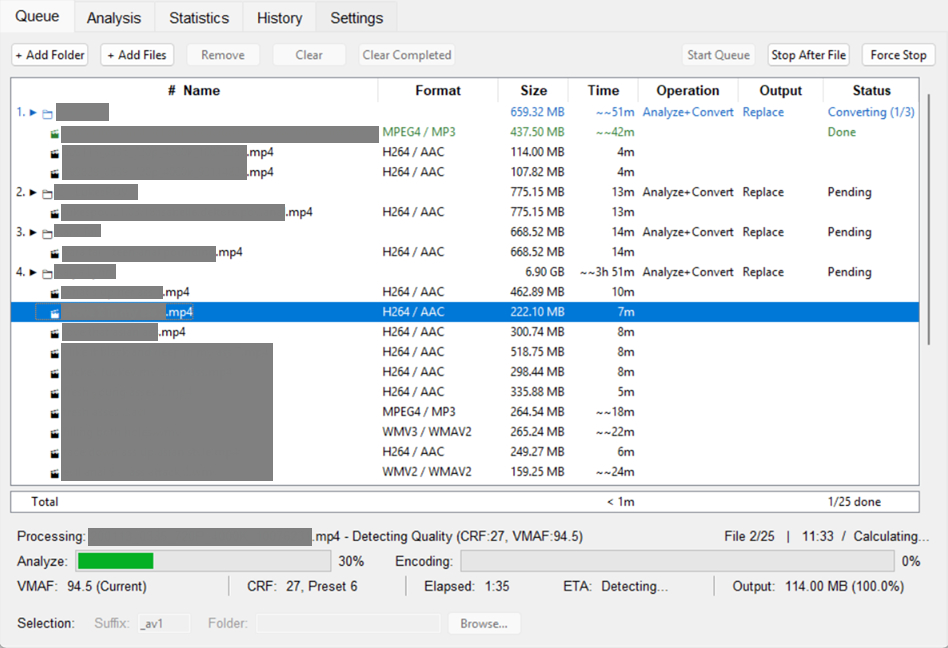
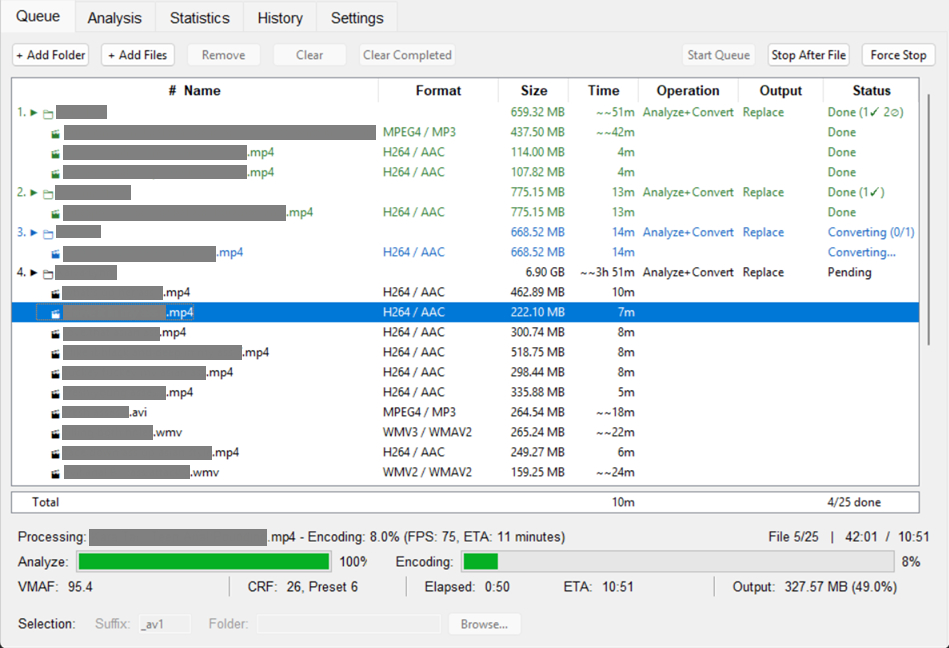
Rename config file and centralize settings defaults
Rename av1_converter_config.json → ab_av1_gui_config.json.

Add ConfigDict TypedDict and CONFIG_DEFAULTS in config.py so
main_window.py merges loaded config with defaults instead of
scattered .get() calls. Clean up temp file on failed save.

Also: update queue screenshot, add estimate tuning to README features.

diff --git a/src/gui/main_window.py b/src/gui/main_window.py
@@ -4,6 +4,7 @@ Main window module for the AV1 Video Converter application.
 """
 
 # Standard library imports
+import contextlib
 import json  # For settings persistence
 import logging
 import multiprocessing
@@ -17,6 +18,7 @@ from typing import TYPE_CHECKING
 if TYPE_CHECKING:
     from src.gui.charts import BarChart, LineGraph, PieChart
 
+from src.config import CONFIG_DEFAULTS, CONFIG_FILE
 from src.gui import (
     analysis_controller,
     analysis_scanner,
@@ -53,8 +55,8 @@ from src.utils import scrub_history_paths, scrub_log_files
 logger = logging.getLogger(__name__)
 
 
-# Place config file next to script/executable
-CONFIG_FILE = os.path.join(get_script_directory(), "av1_converter_config.json")
+# Build full path to config file (CONFIG_FILE is just the filename)
+CONFIG_PATH = os.path.join(get_script_directory(), CONFIG_FILE)
 
 
 class VideoConverterGUI:
@@ -238,20 +240,21 @@ class VideoConverterGUI:
     def load_settings(self):
         """Load settings from JSON config file"""
         try:
-            if os.path.exists(CONFIG_FILE):
-                with open(CONFIG_FILE, encoding="utf-8") as f:
+            if os.path.exists(CONFIG_PATH):
+                with open(CONFIG_PATH, encoding="utf-8") as f:
                     config = json.load(f)
-                    logger.info(f"Loaded settings from {CONFIG_FILE}")
+                    logger.info(f"Loaded settings from {CONFIG_PATH}")
                     return config  # Changed print to logger
             else:
-                logger.info(f"Config file {CONFIG_FILE} not found, using defaults.")
+                logger.info(f"Config file {CONFIG_PATH} not found, using defaults.")
                 return {}  # Changed print to logger
         except Exception:
-            logger.exception(f"Error loading settings from {CONFIG_FILE}. Using defaults.")
+            logger.exception(f"Error loading settings from {CONFIG_PATH}. Using defaults.")
             return {}  # Changed print to logger
 
     def save_settings(self):
         """Save settings to JSON config file"""
+        temp_config_file = None
         try:
             # IMPORTANT: When saving, use the value from the StringVar, which the user might have changed
             # via the Browse button, even if the initial logging setup used a default/different path.
@@ -271,20 +274,24 @@ class VideoConverterGUI:
                 "log_folder": log_folder_to_save,  # Save the potentially user-modified path
                 "anonymize_logs": self.anonymize_logs.get(),
                 "anonymize_history": self.anonymize_history.get(),
-                "delete_original_after_conversion": self.delete_original_var.get(),  # Added
                 "default_output_mode": self.default_output_mode.get(),
                 "default_suffix": self.default_suffix.get(),
                 "default_output_folder": self.default_output_folder.get(),
                 "hw_decode_enabled": self.hw_decode_enabled.get(),
                 "queue_items": [item.to_dict() for item in self._queue_items],
             }
-            temp_config_file = CONFIG_FILE + ".tmp"
+            temp_config_file = CONFIG_PATH + ".tmp"
             with open(temp_config_file, "w", encoding="utf-8") as f:
                 json.dump(current_config, f, indent=4)
-            os.replace(temp_config_file, CONFIG_FILE)
-            logger.info(f"Saved settings to {CONFIG_FILE} (Log folder saved: '{log_folder_to_save}')")
+            os.replace(temp_config_file, CONFIG_PATH)
+            logger.info(f"Saved settings to {CONFIG_PATH} (Log folder saved: '{log_folder_to_save}')")
         except Exception:
-            logger.exception(f"Error saving settings to {CONFIG_FILE}")
+            logger.exception(f"Error saving settings to {CONFIG_PATH}")
+        finally:
+            # Clean up temp file if it still exists (save failed after write)
+            if temp_config_file and os.path.exists(temp_config_file):
+                with contextlib.suppress(OSError):
+                    os.remove(temp_config_file)
 
     def setup_styles(self):
         """Set up the GUI styles"""
@@ -331,23 +338,24 @@ class VideoConverterGUI:
 
     def initialize_variables(self):
         """Initialize the GUI variables, using loaded config"""
-        # Initialize StringVars/BooleanVars *first* based on config or defaults
-        self.input_folder = tk.StringVar(value=self.config.get("input_folder", ""))
-        self.output_folder = tk.StringVar(value=self.config.get("output_folder", ""))
-        # Initialize log_folder based on config. It will be overwritten shortly after
-        # logging setup confirms the actual path, or cleared if invalid.
-        self.log_folder = tk.StringVar(value=self.config.get("log_folder", ""))
-        self.overwrite = tk.BooleanVar(value=self.config.get("overwrite", False))
-        self.ext_mp4 = tk.BooleanVar(value=self.config.get("ext_mp4", True))
-        self.ext_mkv = tk.BooleanVar(value=self.config.get("ext_mkv", True))
-        self.ext_avi = tk.BooleanVar(value=self.config.get("ext_avi", True))
-        self.ext_wmv = tk.BooleanVar(value=self.config.get("ext_wmv", True))
-        self.convert_audio = tk.BooleanVar(value=self.config.get("convert_audio", True))
-        self.anonymize_logs = tk.BooleanVar(value=self.config.get("anonymize_logs", True))
-        self.anonymize_history = tk.BooleanVar(value=self.config.get("anonymize_history", True))
-        self.audio_codec = tk.StringVar(value=self.config.get("audio_codec", "opus"))
-        self.delete_original_var = tk.BooleanVar(value=self.config.get("delete_original_after_conversion", False))
-        self.hw_decode_enabled = tk.BooleanVar(value=self.config.get("hw_decode_enabled", True))
+        # Merge loaded config with defaults (loaded values override defaults)
+        config = {**CONFIG_DEFAULTS, **self.config}
+
+        # Initialize StringVars/BooleanVars from merged config
+        self.input_folder = tk.StringVar(value=config["input_folder"])
+        self.output_folder = tk.StringVar(value=config["output_folder"])
+        # log_folder will be overwritten shortly after logging setup confirms the actual path
+        self.log_folder = tk.StringVar(value=config["log_folder"])
+        self.overwrite = tk.BooleanVar(value=config["overwrite"])
+        self.ext_mp4 = tk.BooleanVar(value=config["ext_mp4"])
+        self.ext_mkv = tk.BooleanVar(value=config["ext_mkv"])
+        self.ext_avi = tk.BooleanVar(value=config["ext_avi"])
+        self.ext_wmv = tk.BooleanVar(value=config["ext_wmv"])
+        self.convert_audio = tk.BooleanVar(value=config["convert_audio"])
+        self.anonymize_logs = tk.BooleanVar(value=config["anonymize_logs"])
+        self.anonymize_history = tk.BooleanVar(value=config["anonymize_history"])
+        self.audio_codec = tk.StringVar(value=config["audio_codec"])
+        self.hw_decode_enabled = tk.BooleanVar(value=config["hw_decode_enabled"])
 
         # CPU count for display purposes
         try:
@@ -357,9 +365,9 @@ class VideoConverterGUI:
             logger.warning("Could not detect CPU count.")
 
         # Queue/Output defaults
-        self.default_output_mode = tk.StringVar(value=self.config.get("default_output_mode", "replace"))
-        self.default_suffix = tk.StringVar(value=self.config.get("default_suffix", "_av1"))
-        self.default_output_folder = tk.StringVar(value=self.config.get("default_output_folder", ""))
+        self.default_output_mode = tk.StringVar(value=config["default_output_mode"])
+        self.default_suffix = tk.StringVar(value=config["default_suffix"])
+        self.default_output_folder = tk.StringVar(value=config["default_output_folder"])
 
         # Queue state (will be restored from config on startup)
         self._queue_items: list[QueueItem] = self._load_queue_from_config()
@@ -611,7 +619,8 @@ class VideoConverterGUI:
         dependency_manager.download_ffmpeg_update(self)
 
     def _load_queue_from_config(self) -> list[QueueItem]:
-        return queue_manager.load_queue_from_config(self)
+        raw_items = self.config.get("queue_items", [])
+        return queue_manager.load_queue_from_config(raw_items)
 
     def save_queue_to_config(self):
         """Save current queue state (called on add/remove/modify)."""

diff --git a/src/config.py b/src/config.py
@@ -3,6 +3,8 @@
 Central configuration constants for the AV1 Video Converter application.
 """
 
+from typing import TypedDict
+
 # --- Application Version ---
 try:
     import tomllib
@@ -51,6 +53,51 @@ MAX_VMAF_VALUE = 100  # Maximum valid VMAF score
 # --- History File ---
 HISTORY_FILE = "conversion_history.json"
 
+# --- Settings File ---
+CONFIG_FILE = "ab_av1_gui_config.json"
+
+
+class ConfigDict(TypedDict):
+    """Type-safe configuration dictionary."""
+
+    input_folder: str
+    output_folder: str
+    log_folder: str
+    overwrite: bool
+    ext_mp4: bool
+    ext_mkv: bool
+    ext_avi: bool
+    ext_wmv: bool
+    convert_audio: bool
+    audio_codec: str
+    anonymize_logs: bool
+    anonymize_history: bool
+    hw_decode_enabled: bool
+    default_output_mode: str
+    default_suffix: str
+    default_output_folder: str
+
+
+# Default configuration values (used for merging with loaded config)
+CONFIG_DEFAULTS: ConfigDict = {
+    "input_folder": "",
+    "output_folder": "",
+    "log_folder": "",
+    "overwrite": False,
+    "ext_mp4": True,
+    "ext_mkv": True,
+    "ext_avi": True,
+    "ext_wmv": True,
+    "convert_audio": True,
+    "audio_codec": "opus",
+    "anonymize_logs": True,
+    "anonymize_history": False,
+    "hw_decode_enabled": True,
+    "default_output_mode": "replace",
+    "default_suffix": "_av1",
+    "default_output_folder": "",
+}
+
 # --- UI Batching ---
 TREE_UPDATE_BATCH_SIZE = 50  # Number of items to batch before updating UI
 MIN_FILES_FOR_PERCENT_UPDATES = 20  # Minimum files before using percentage-based update intervals
@@ -67,11 +114,6 @@ RESOLUTION_TOLERANCE_PERCENT = 0.2  # Tolerance for resolution matching (20%)
 # - worker.py rounds to 1 decimal (e.g., 384.5)
 # A tolerance of 0.1 safely covers rounding while avoiding false positives on different files.
 DURATION_TOLERANCE_SEC = 0.1
-
-# --- Queue/Output Settings ---
-DEFAULT_OUTPUT_MODE = "replace"  # "replace", "suffix", "separate_folder"
-DEFAULT_SUFFIX = "_av1"
-OUTPUT_MODE_OPTIONS = ("replace", "suffix", "separate_folder")
 
 # --- Tree Display Formatting ---
 EFFICIENCY_DECIMAL_THRESHOLD = 10  # Show GB/hr without decimals above this value

diff --git a/src/gui/queue_manager.py b/src/gui/queue_manager.py
@@ -21,14 +21,19 @@ from src.privacy import normalize_path
 logger = logging.getLogger(__name__)
 
 
-def load_queue_from_config(gui) -> list[QueueItem]:
+def load_queue_from_config(raw_items: list[dict]) -> list[QueueItem]:
     """Load queue items from config, filtering out completed/invalid entries.
 
     Reconciles queue state with history: files that were already converted/analyzed
     (per history) are marked COMPLETED, not reset to PENDING. This ensures accurate
     UI display and time estimates for partially-completed queue items.
+
+    Args:
+        raw_items: List of queue item dictionaries from config.
+
+    Returns:
+        List of validated QueueItem objects.
     """
-    raw_items = gui.config.get("queue_items", [])
     items = []
     index = get_history_index()
 

diff --git a/README.md b/README.md
@@ -16,9 +16,7 @@ This tool mainly acts as a wrapper for the incredible cli tool [ab-av1](https://
 - **VMAF-based quality targeting:** targets visual quality (_default: **95**_) instead of guessing bitrates
 - **Queue-based workflow:** add files or folders, preview estimates, process sequentially
 - **Private, secure, safe:** no pip packages, no telemetry, optional anonymization of history/logs
-
-<details open>
-<summary>Screenshots</summary>
+- **Estimate tuning:** continually improves estimates using your own conversion history (based on resolution, duration, and codec)
 
 ![Analysis Tab](docs/screenshots/analysis.png)
 
@@ -30,8 +28,6 @@ This tool mainly acts as a wrapper for the incredible cli tool [ab-av1](https://
 
 ![Statistics Tab](docs/screenshots/statistics.png)
 
-</details>
-
 ## Usage
 
 - Install [Python](https://www.python.org/) 3.11+ ([Ensure your install includes Tkinter](https://stackoverflow.com/questions/76105218/why-does-tkinter-or-turtle-seem-to-be-missing-or-broken-shouldnt-it-be-part), included by default on Windows and MacOS).
@@ -40,7 +36,7 @@ This tool mainly acts as a wrapper for the incredible cli tool [ab-av1](https://
 
 On Windows, double-click `convert.bat`. On Linux/macOS, run `./convert.sh`.
 
-The app will prompt to download FFmpeg and ab-av1 if not found.
+If FFmpeg or ab-av1 are missing, download them from the Settings tab.
 
 ## Notes
 

diff --git a/AGENTS.md b/AGENTS.md
@@ -254,7 +254,7 @@ See `ab_av1/wrapper.py` for environment variables that maximize verbosity.
 
 | File | Purpose |
 |------|---------|
-| `av1_converter_config.json` | User settings (managed via GUI) |
+| `ab_av1_gui_config.json` | User settings (managed via GUI) |
 | `conversion_history.json` | File records: metadata, analysis results, conversion history |
 | `logs/*.log` | Rotating log files |
 | `vendor/` | Downloaded ab-av1 and FFmpeg binaries (gitignored) |
@@ -298,7 +298,7 @@ python tools/hash_lookup.py --list .                   # List all file hashes
 
 ### Other Security Notes
 
-- Never commit `av1_converter_config.json` (may contain paths)
+- Never commit `ab_av1_gui_config.json` (may contain paths)
 - Process tree termination required for force-stop
 
 ## Git

diff --git a/docs/ARCHITECTURE.md b/docs/ARCHITECTURE.md
@@ -167,7 +167,7 @@ Conversion uses a queue-based architecture rather than direct folder scanning:
 | File | Loaded | Saved | Contents |
 |------|--------|-------|----------|
 | `conversion_history.json` | First history access | After analyze/convert | FileRecord array |
-| `av1_converter_config.json` | App startup | Settings/queue change | Settings + queue_items |
+| `ab_av1_gui_config.json` | App startup | Settings/queue change | Settings + queue_items |
 
 ### HistoryIndex Lifecycle
 
